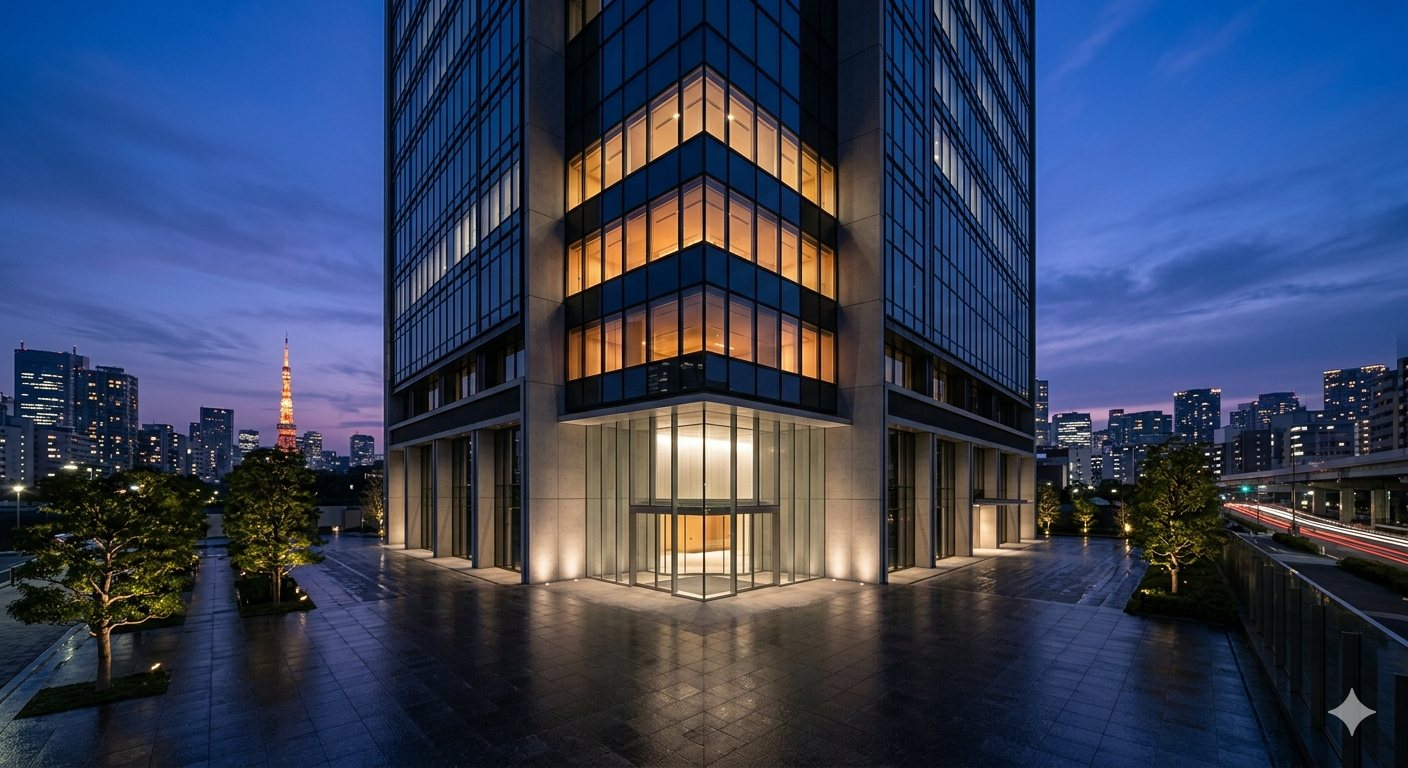
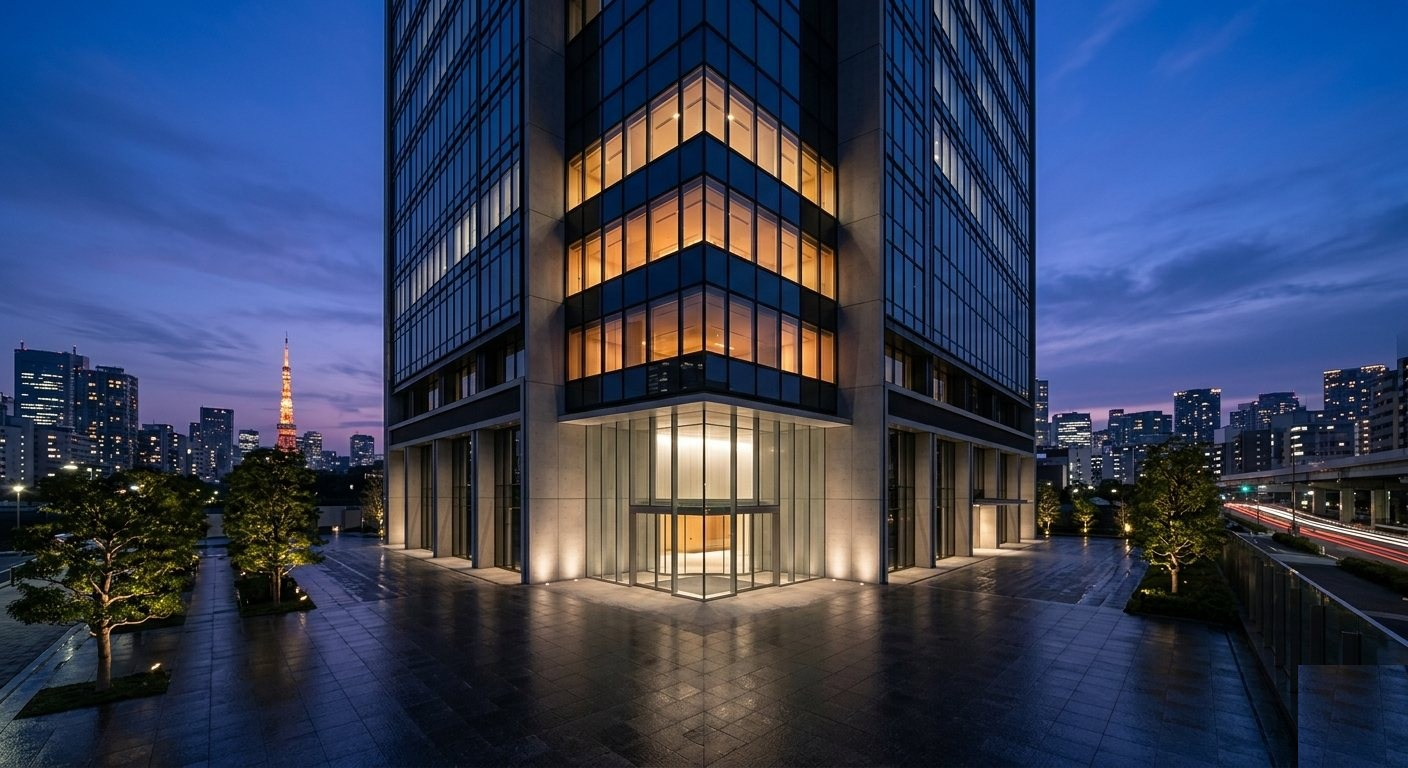
Remove AI watermark from hero photo; add officer Mitsuko Kamikura

Changed region(s): [[0.9062, 0.8438, 1.0, 1.0]]

diff --git a/index.html b/index.html
@@ -668,7 +668,7 @@
           </tr>
           <tr>
             <td>Officers</td>
-            <td>役員 神倉 久子<br>役員 神倉 千絵</td>
+            <td>役員 神倉 久子<br>役員 神倉 千絵<br>役員 神倉 光子</td>
           </tr>
           <tr>
             <td>Business</td>
